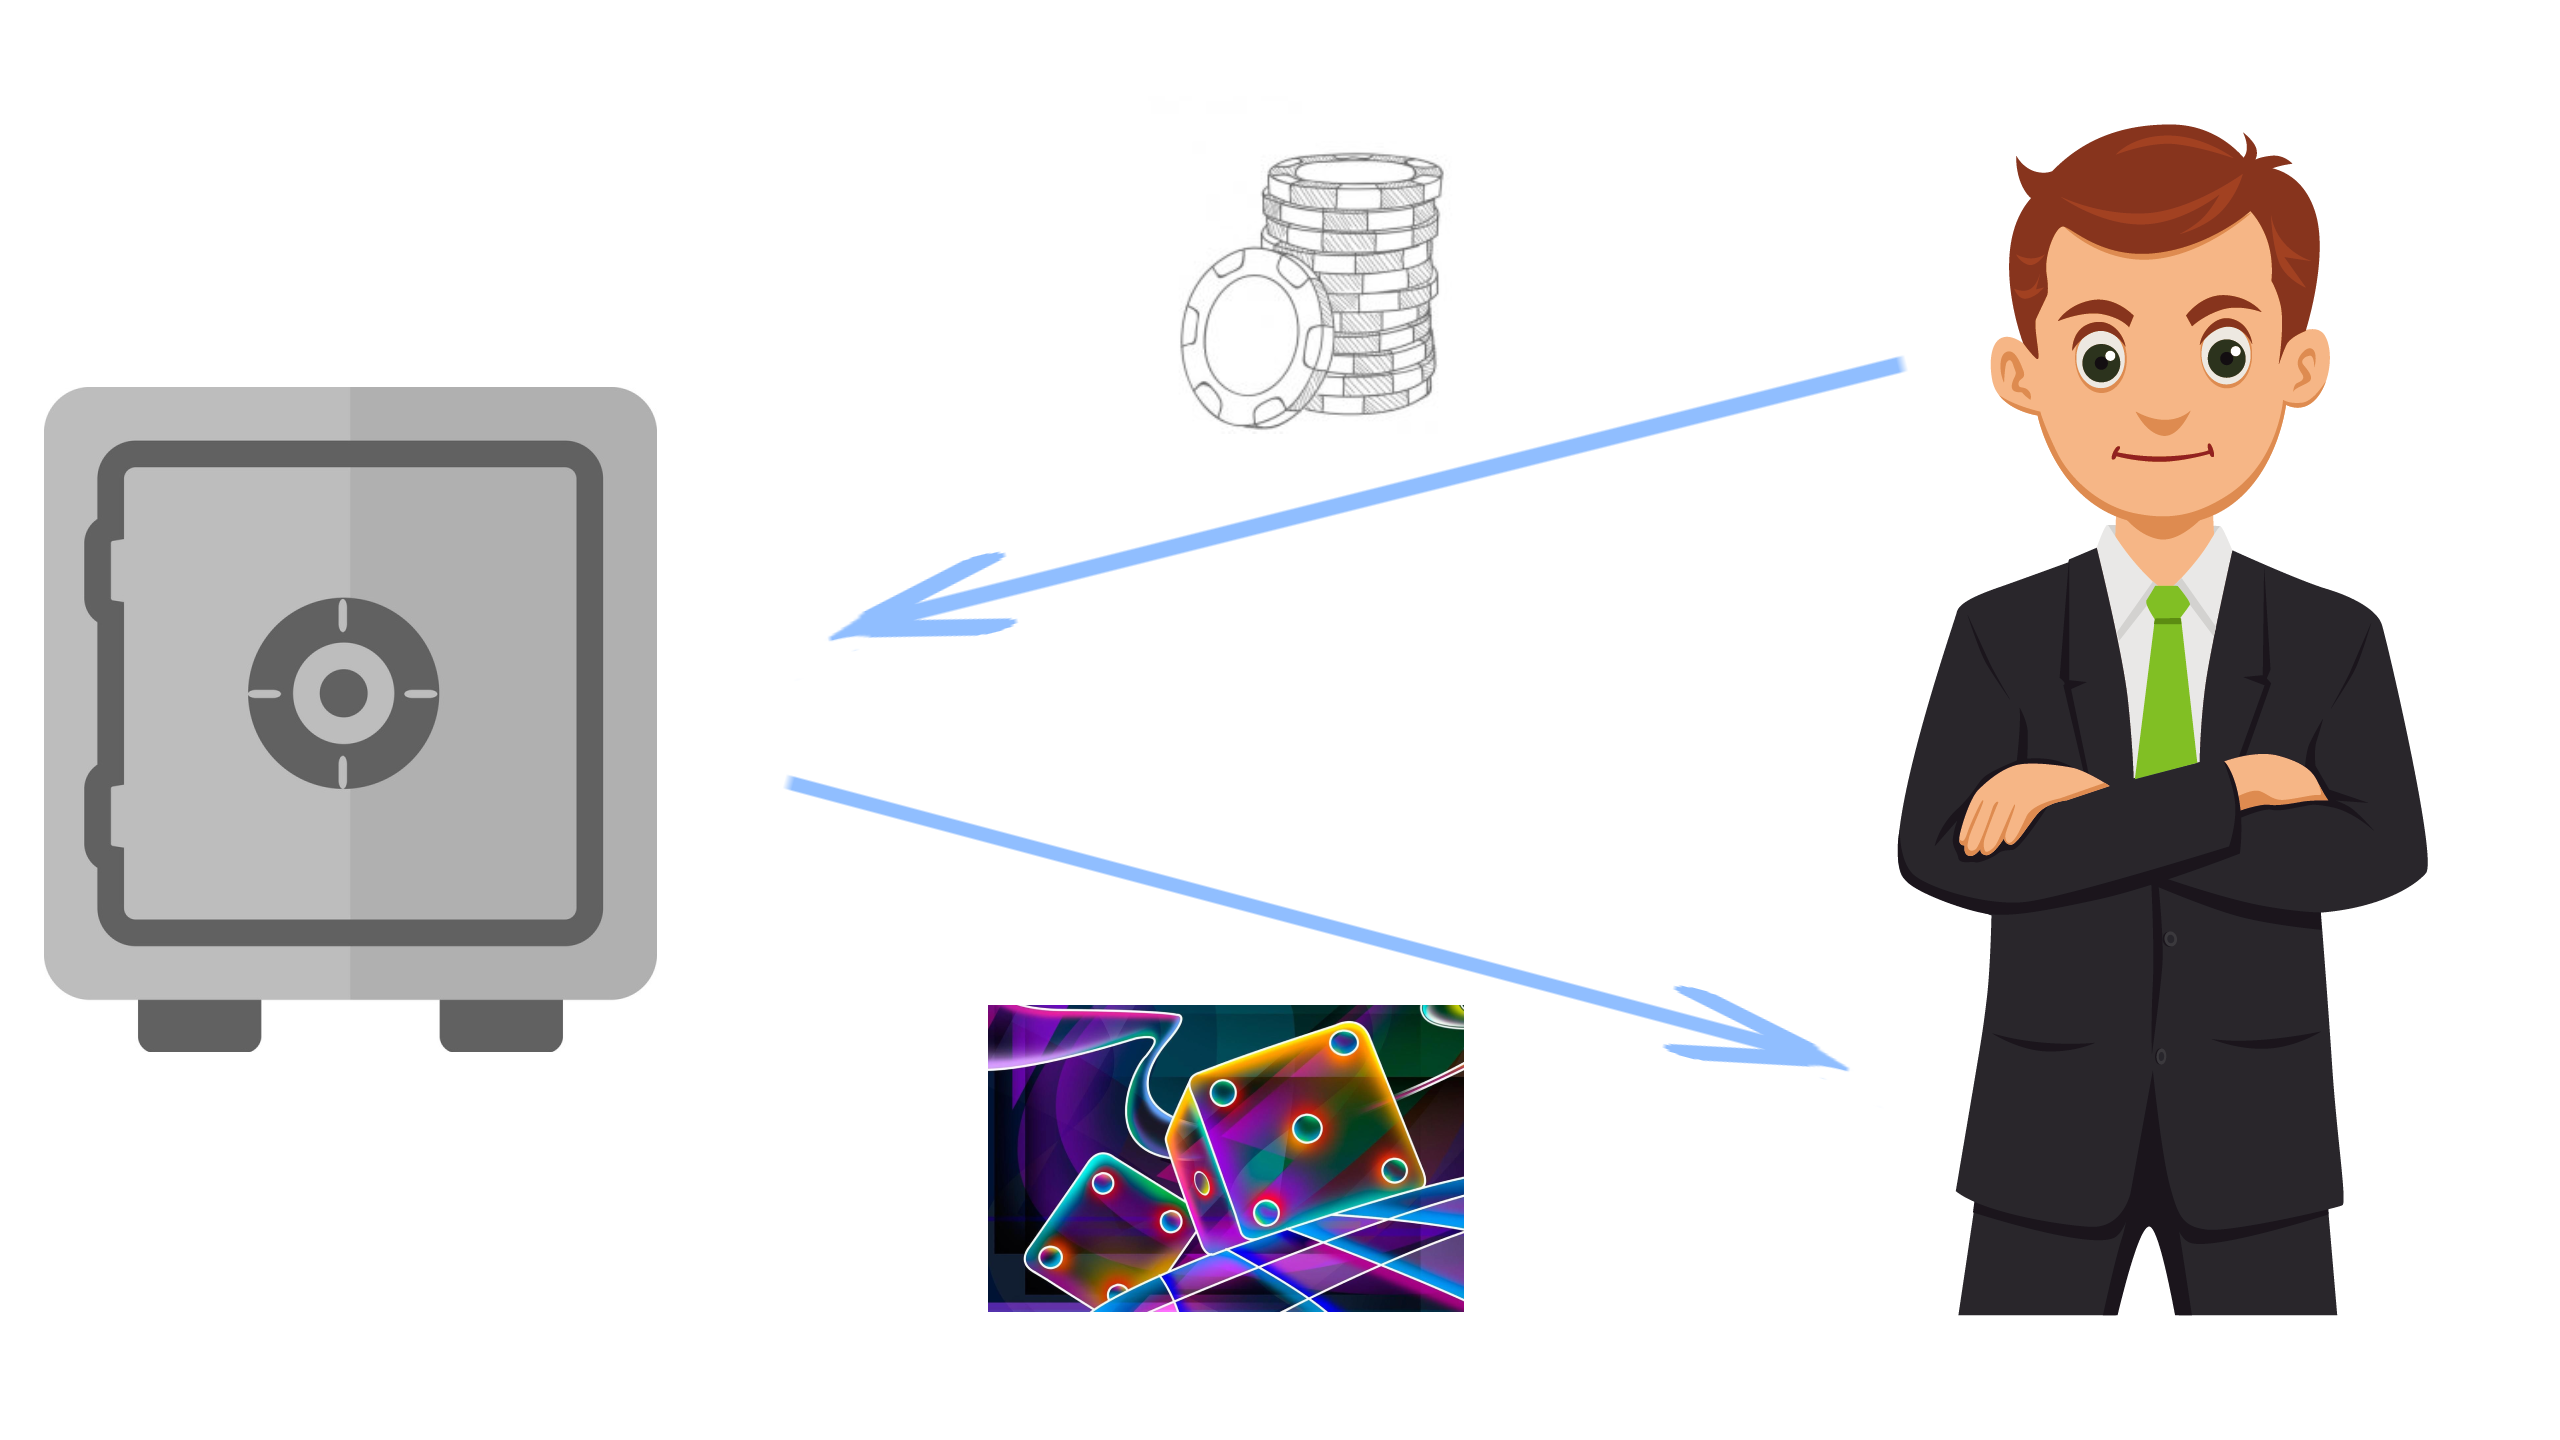
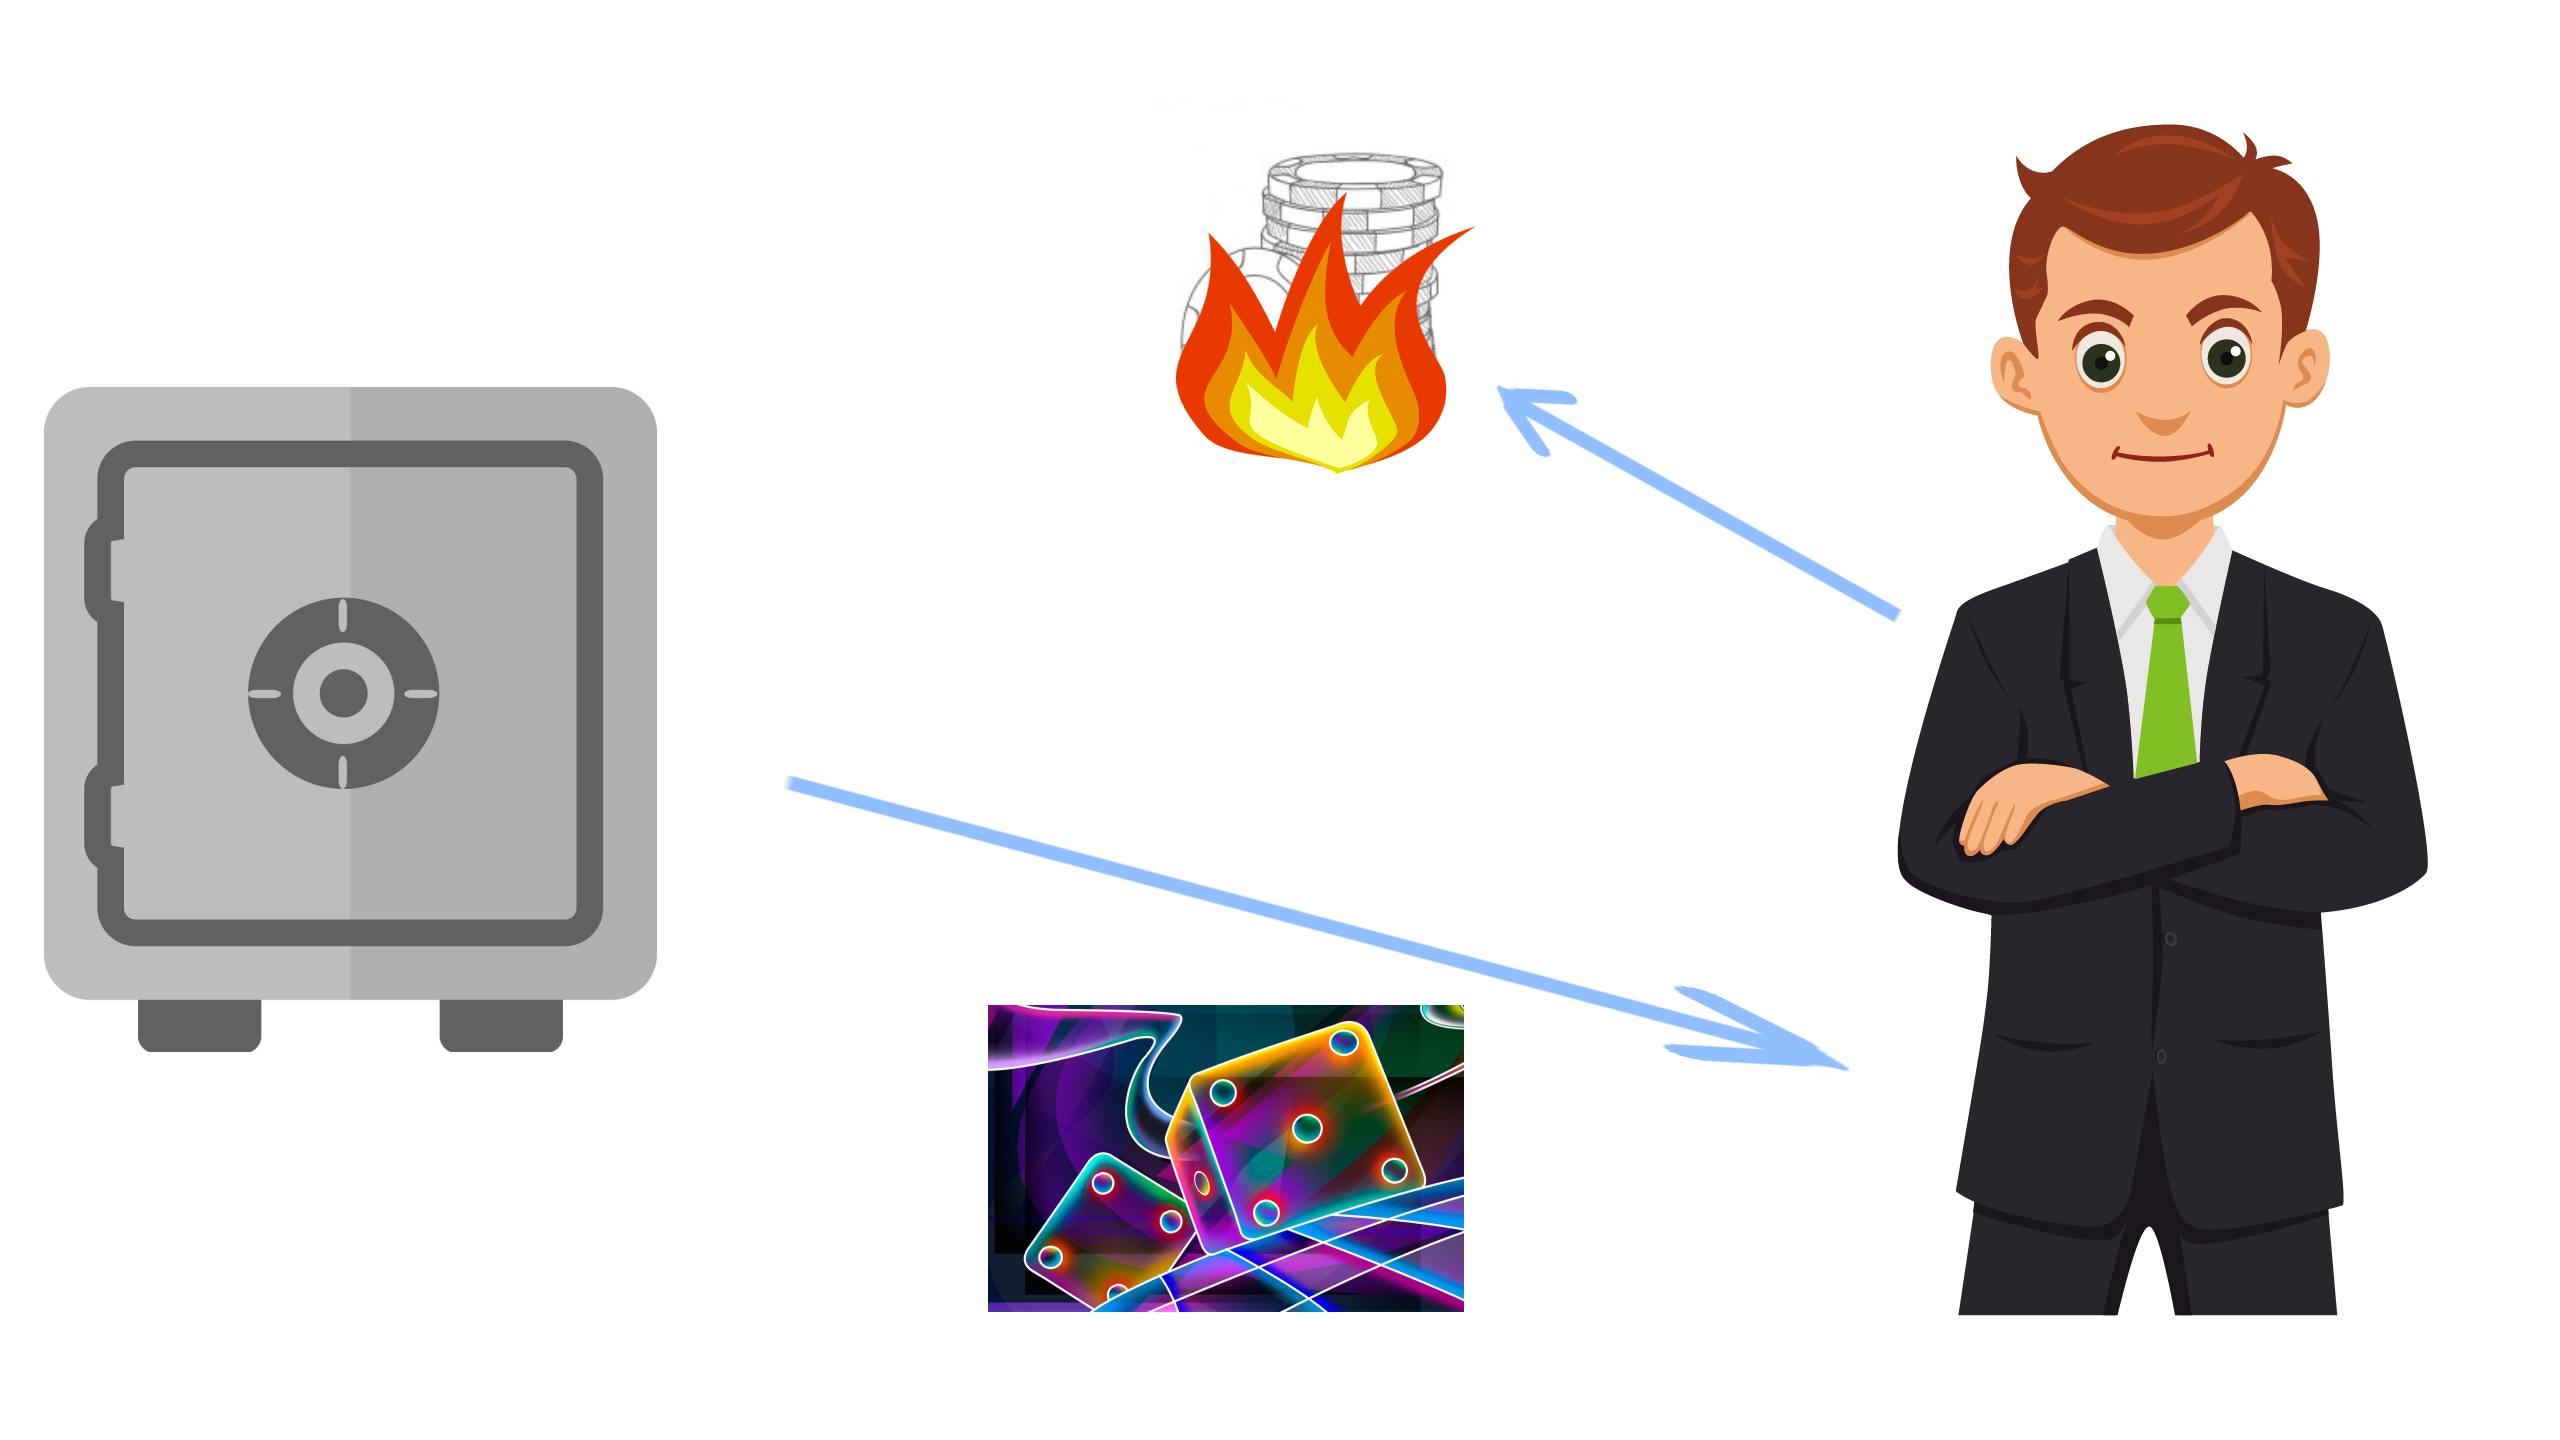
adding burn mint info

diff --git a/index.html b/index.html
@@ -104,7 +104,7 @@
                         <h1 class="GradientText">Decentralised Exchange For Trading NFT Backed Creator Tokens</h1><br/><br/>
                         <!-- <h3 style="color:white;">&#8227;  Open Source and Non Custodial<br></hr> -->
                         <!-- <h3 style="color:white;">&#8227;  Self-sufficient liquidity pools to swap creator tokens<br/><br/></hr> -->
-                        <h2 style="color:white;"><b>Want to know how this NFT Stake works?</b><br/><br/><br/></h2>
+                        <h2 style="color:white;"><b>Want to know how Xeldorado Protocol works?</b><br/><br/><br/></h2>
                         <a href="#nftStake">Understand</a>&emsp;
                         <a href="https://github.com/RonnieGandhi/XeldoradoContractsV1">Code</a><br/><br/><br/>
                         <h3 style="color:rgb(41, 248, 103);">Currently supported on Polygon (MATIC) network<br></h2>
@@ -142,7 +142,7 @@
             <div class="row">
                <div class="col-md-12">
                   <div class="titlepage">
-                     <h2>How does NFT Stake work?</h2>
+                     <h2>How does Xeldorado Protocol work?</h2>
                   </div>
                </div>
             </div>
@@ -151,28 +151,32 @@
                <img style="display: block; margin-left: auto; margin-right: auto;" src="images/artist.png" alt="#"/><br/><br/>
                <h1 style="font-weight:bold;">2. Creator mint NFT out of his artwork and add it to his creator vault. Creator can also add already minted NFTs.</h1>
                <img style="display: block; margin-left: auto; margin-right: auto;" src="images/mintingLENFT_v2.png" alt="#"/><br/><br/>
-               <h1 style="font-weight:bold;">3. Vault issues ERC20 creator tokens against the NFT. 118888 tokens are issued when a given creator's vault is created. Vault doesn't allow minting of new tokens hence as and when new NFTs are added the price of individual token should go up in a long run by design.</h1>
+               <h1 style="font-weight:bold;">3. Vault issues ERC20 creator tokens against the NFT. 1111888 tokens are issued when a given creator's vault is created.</h1>
                <img style="display: block; margin-left: auto; margin-right: auto;" src="images/vaultToken.png" alt="#"/><br/><br/>
                <h1 style="font-weight:bold;">4. By default 76% of Creator Tokens are minted to vault address and rest 24% to creator addess. Creator can start the Initial Creator Token Offering anytime after the vault is created with specified minimum price and ERC20 base token like WETH, USDC, USDT, etc. This offering is for specified time.  </h1><br/>
                <img style="display: block; margin-left: auto; margin-right: auto;" src="images/creatorTokenDist.png" alt="#"/><br/><br/>
                <h1 style="font-weight:bold;">5. Maximum of 38% of creator tokens are allowed to be bought from the vault under the initial creator token offering. Buyers buy creator tokens directly from the creator's vault contract by paying the base token, at or above the minimum price, to the vault. It is first come first serve basis.</h1>
                <img  style="display: block; margin-left: auto; margin-right: auto;" src="images/ICTO.png" alt="#"/><br/><br/>
                <h1 style="font-weight:bold;">6. After the offering closes, creator tokens from the vault, as much amount as sold in the offering, are used to create liquidity pools along with all the base tokens received. Initially vault owned 76% of creator tokens, suppose 32% of these tokens are sold then to match this 32% another 32% from the vault is sent to the liquidity pool, leaving 12% in vault, and since 32% of creator tokens are worth all the base tokens received hence all base tokens are sent to the liquidity pool to create a trading pair for this creator. </h1>
-               <img  style="display: block; margin-left: auto; margin-right: auto;" src="images/liquidityPoolFill.png" alt="#"/><br/><br/>
+               <img  style="display: block; margin-left: auto; margin-right: auto;" src="images/liquidityPoolFill.png" alt="#"/><br/><br/><br/><br/><br/>
                <h1 style="font-weight:bold;">7. Creator tokens left in the vault, 12% in this case, are sent to the creator address</h1>
                <img  style="display: block; margin-left: auto; margin-right: auto;" src="images/returnLeftOverTokens.png" alt="#"/><br/><br/>
                <h1 style="font-weight:bold;">8. Now that creator's liquidity pools are ready, trading between creator token and base token can happen. Since we have as much liquidity in pool (32% in above case) as much creator tokens bought (32% in above case), it is a self-sufficient scenario for trading to begin.</h1>
                <img  style="display: block; margin-left: auto; margin-right: auto;" src="images/marketCreation.png" alt="#"/><br/><br/>
-               <h1 style="font-weight:bold;">9. If pool contains 500 WETH and 50000 Creator Token, then quote price of creator token is 0.01 WETH currently. Price of last Creator Token left in the pool, in case all creator tokens are swapped against WETH, will be 25000000 WETH and if selling of creator token continues then price of last creator token added will be 0.00000004WETH. Basic Idea of Automated Market Making. </h1>
+               <h1 style="font-weight:bold;">9. If pool contains 500 WETH and 50000 Creator Token, then quote price of creator token is 0.01 WETH currently. Price of last Creator Token left in the pool, in case all creator tokens are swapped against WETH, will be 25000000 WETH and if selling of creator token continues then price of last creator token added will be 0.00000004WETH. This is the basic idea of Automated Market Making. </h1>
                <img  style="display: block; margin-left: auto; margin-right: auto;" width="50%" height="50%" src="images/buyct.png" alt="#"/><br/><br/>
                <img  style="display: block; margin-left: auto; margin-right: auto;" width="50%" height="50%" src="images/sellct.png" alt="#"/><br/><br/>
-               <h1 style="font-weight:bold;">10. Owner of creator token can redeem NFT from vault against proportionate amount of tokens. Suppose there are 100 NFTs in vault and someone owns 1% of all tokens of a creator, he can get one NFT and corresponding tokens will be transfered to the creator.</h1>
+               <h1 style="font-weight:bold;">10. Owner of creator token can redeem NFT from vault against proportionate amount of tokens. Suppose there are 100 NFTs in vault and someone owns 1% of all tokens of a creator, he can get one NFT and corresponding tokens will be burnt.</h1>
                <img  style="display: block; margin-left: auto; margin-right: auto;" src="images/redeem.png" alt="#"/><br/><br/>
                <h1 style="font-weight:bold;">11. Creator can add new many NFTs to vault. The more the NFTs in vault, the lesser tokens required to redeem an NFT. This also ensures that in long term, same number of tokens can buy more NFT hence a pontential price rise for the token in future.</h1>
                <img  style="display: block; margin-left: auto; margin-right: auto;" src="images/mintingLENFT_v3.png" alt="#"/><br/><br/>
-               <h1 style="font-weight:bold;">12. Creator gets royalty fee(0.05%) upon each swap from the pool which creator can change as per convenience. Small incentives motivates creator to continue adding more NFTs to vault.</h1>
+               <h1 style="font-weight:bold;">12. If the owner returns his NFT back, tokens equal to price of 1 NFT, at that time, are minted to his account.</h1>
+               <img  style="display: block; margin-left: auto; margin-right: auto;" src="images/returnNFT.png" alt="#"/><br/><br/>
+               <h1 style="font-weight:bold;">13. If NFTs are added by creator between redeem and return event then more tokens will be burnt, upon redeem, and lesser tokens will be minted upon return since price of 1 NFT has dropped. Hence making tokens deflationary in nature.</h1>
+               <img  style="display: block; margin-left: auto; margin-right: auto;" src="images/defaltion.png" alt="#"/><br/><br/>
+               <h1 style="font-weight:bold;">14. Creator gets royalty fee(0.05%) upon each swap from the pool which creator can change as per convenience. Small incentives motivates creator to continue adding more NFTs to vault.</h1>
                <img  style="display: block; margin-left: auto; margin-right: auto;" src="images/royalty.jpg" alt="#"/><br/><br/>
-               <h1 style="font-weight:bold;">13. Creator can liquidate only 2% of creator token in a month to ensure trust and stability of creator token's lquidity pool.</h1>
+               <h1 style="font-weight:bold;">15. Creator can liquidate only 2% of creator token in a month to ensure trust and stability of creator token's liquidity pool.</h1>
             </div>
          </div>
       </div>
